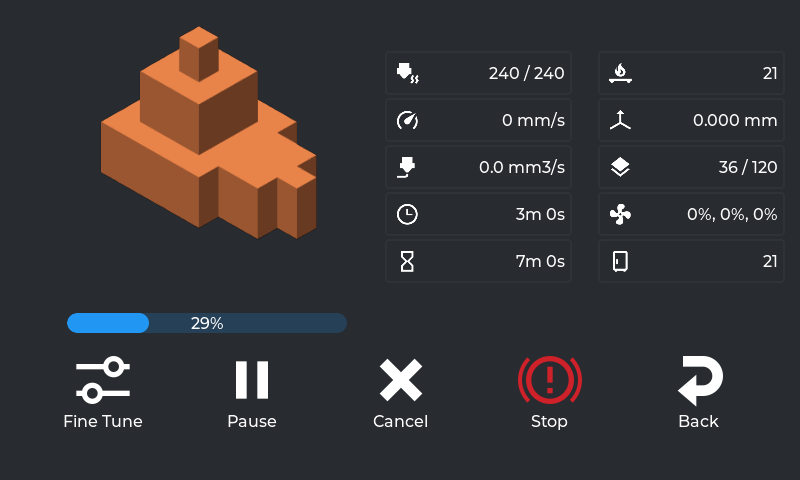
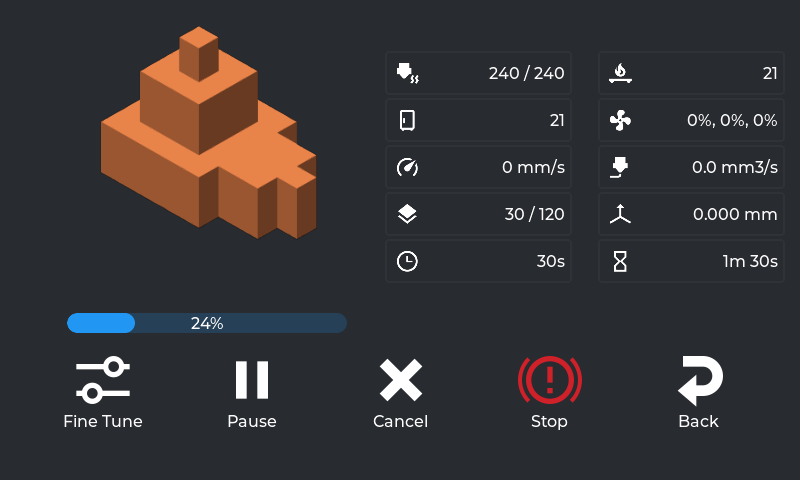
feat: group the temperatures on the print status screen
The nozzle and bed sat in the first row of the detail grid and the
chamber alone in the last, so reading the three meant looking at
opposite corners of the panel.

The temperatures now sit together at the top: nozzle and bed, then the
chamber beside the fan. Below them speed sits beside flow, layers
beside the Z offset, and elapsed beside time left.

The chamber tile only appears when a temperature_sensor or
temperature_fan is configured. Without one the fan moves left into its
cell rather than leaving a hole at the start of the row. init() places
both every time, since it runs again on reconnect.

Checked in the simulator against a fake print, with the chamber
configured and with it removed from monitored_sensors. The screenshot
is refreshed.

diff --git a/src/print_status_panel.cpp b/src/print_status_panel.cpp
@@ -92,33 +92,24 @@ PrintStatusPanel::PrintStatusPanel(KWebSocketClient &websocket_client,
   lv_obj_clear_flag(detail_cont, LV_OBJ_FLAG_SCROLLABLE);  
   lv_obj_set_size(detail_cont, LV_PCT(60), LV_PCT(60));
 
-  //detail containter row 1
+  // The temperatures sit together at the top. The chamber used to be alone in
+  // the bottom corner, five rows from the nozzle and bed. It shares row two
+  // with the fan, and init() settles which cell each takes, since the chamber
+  // is there only when the printer has one.
   lv_obj_set_grid_cell(extruder_temp.get_container(), LV_GRID_ALIGN_START, 0, 1, LV_GRID_ALIGN_START, 0, 1);
-  lv_obj_set_grid_cell(bed_temp.get_container(), LV_GRID_ALIGN_START, 1, 1, LV_GRID_ALIGN_START, 0, 1);  
+  lv_obj_set_grid_cell(bed_temp.get_container(), LV_GRID_ALIGN_START, 1, 1, LV_GRID_ALIGN_START, 0, 1);
 
-  //detail containter row 2
-  lv_obj_set_grid_cell(print_speed.get_container(), LV_GRID_ALIGN_START, 0, 1, LV_GRID_ALIGN_START, 1, 1);
-  lv_obj_set_grid_cell(z_offset.get_container(), LV_GRID_ALIGN_START, 1, 1, LV_GRID_ALIGN_START, 1, 1);  
+  place_aux_and_fan(false);
 
-  //detail containter row 3
-  lv_obj_set_grid_cell(flow_rate.get_container(), LV_GRID_ALIGN_START, 0, 1, LV_GRID_ALIGN_START, 2, 1);
-  lv_obj_set_grid_cell(layers.get_container(), LV_GRID_ALIGN_START, 1, 1, LV_GRID_ALIGN_START, 2, 1);
+  lv_obj_set_grid_cell(print_speed.get_container(), LV_GRID_ALIGN_START, 0, 1, LV_GRID_ALIGN_START, 2, 1);
+  lv_obj_set_grid_cell(flow_rate.get_container(), LV_GRID_ALIGN_START, 1, 1, LV_GRID_ALIGN_START, 2, 1);
 
-  //detail containter row 4
-  lv_obj_set_grid_cell(elapsed.get_container(), LV_GRID_ALIGN_START, 0, 1, LV_GRID_ALIGN_START, 3, 1);
-  lv_obj_set_grid_cell(fan0.get_container(), LV_GRID_ALIGN_START, 1, 1, LV_GRID_ALIGN_START, 3, 1);
+  lv_obj_set_grid_cell(layers.get_container(), LV_GRID_ALIGN_START, 0, 1, LV_GRID_ALIGN_START, 3, 1);
+  lv_obj_set_grid_cell(z_offset.get_container(), LV_GRID_ALIGN_START, 1, 1, LV_GRID_ALIGN_START, 3, 1);
 
-  //detail containter row 5
-  lv_obj_set_grid_cell(time_left.get_container(), LV_GRID_ALIGN_START, 0, 1, LV_GRID_ALIGN_START, 4, 1);
+  lv_obj_set_grid_cell(elapsed.get_container(), LV_GRID_ALIGN_START, 0, 1, LV_GRID_ALIGN_START, 4, 1);
+  lv_obj_set_grid_cell(time_left.get_container(), LV_GRID_ALIGN_START, 1, 1, LV_GRID_ALIGN_START, 4, 1);
 
-  // The free cell, left by a commented out third fan. Which sensor lands here
-  // is decided in init() from the configured monitored_sensors rather than
-  // hardcoded, so it is the chamber on a K1 Max and whatever else a different
-  // printer has been told about. Upstream #117 asks for the chamber here while
-  // printing engineering materials, and PR #141 offers it by object name.
-  lv_obj_set_grid_cell(aux_temp.get_container(), LV_GRID_ALIGN_START, 1, 1, LV_GRID_ALIGN_START, 4, 1);
-  lv_obj_add_flag(aux_temp.get_container(), LV_OBJ_FLAG_HIDDEN);
-  
   static lv_coord_t grid_main_row_dsc[] = {LV_GRID_FR(2), LV_GRID_FR(1), LV_GRID_TEMPLATE_LAST};
   static lv_coord_t grid_main_col_dsc[] = {LV_GRID_FR(1), LV_GRID_FR(1), LV_GRID_TEMPLATE_LAST};
 
@@ -173,6 +164,24 @@ void PrintStatusPanel::foreground() {
 
 void PrintStatusPanel::background() {
   lv_obj_move_background(status_cont);
+}
+
+// The third temperature sits under the nozzle, with the other two. Which
+// sensor it shows is decided in init() from the configured monitored_sensors
+// rather than hardcoded, so it is the chamber on a K1 Max and whatever else a
+// different printer has been told about. Upstream #117 asks for the chamber
+// here while printing engineering materials, and PR #141 offers it by object
+// name. Without one the fan moves left into its cell, so the row is not left
+// with a hole at its start.
+void PrintStatusPanel::place_aux_and_fan(bool has_aux) {
+  if (has_aux) {
+    lv_obj_set_grid_cell(aux_temp.get_container(), LV_GRID_ALIGN_START, 0, 1, LV_GRID_ALIGN_START, 1, 1);
+    lv_obj_set_grid_cell(fan0.get_container(), LV_GRID_ALIGN_START, 1, 1, LV_GRID_ALIGN_START, 1, 1);
+    lv_obj_clear_flag(aux_temp.get_container(), LV_OBJ_FLAG_HIDDEN);
+  } else {
+    lv_obj_set_grid_cell(fan0.get_container(), LV_GRID_ALIGN_START, 0, 1, LV_GRID_ALIGN_START, 1, 1);
+    lv_obj_add_flag(aux_temp.get_container(), LV_OBJ_FLAG_HIDDEN);
+  }
 }
 
 void PrintStatusPanel::update_progress(int pct) {
@@ -230,14 +239,11 @@ void PrintStatusPanel::init(json &fans, json &sensors) {
       aux_temp.update_label(name != s.value().end()
 			    ? name->template get<std::string>().c_str()
 			    : KUtils::to_title(KUtils::get_obj_name(id)).c_str());
-      lv_obj_clear_flag(aux_temp.get_container(), LV_OBJ_FLAG_HIDDEN);
       break;
     }
   }
 
-  if (aux_sensor.empty()) {
-    lv_obj_add_flag(aux_temp.get_container(), LV_OBJ_FLAG_HIDDEN);
-  }
+  place_aux_and_fan(!aux_sensor.empty());
 
   fan_speeds.clear();
   std::vector<std::string> values;

diff --git a/src/print_status_panel.h b/src/print_status_panel.h
@@ -47,6 +47,8 @@ class PrintStatusPanel : public NotifyConsumer {
   FineTunePanel &get_finetune_panel();
 
  private:
+  void place_aux_and_fan(bool has_aux);
+
   KWebSocketClient &ws;
   FineTunePanel finetune_panel;
   MiniPrintStatus mini_print_status;
